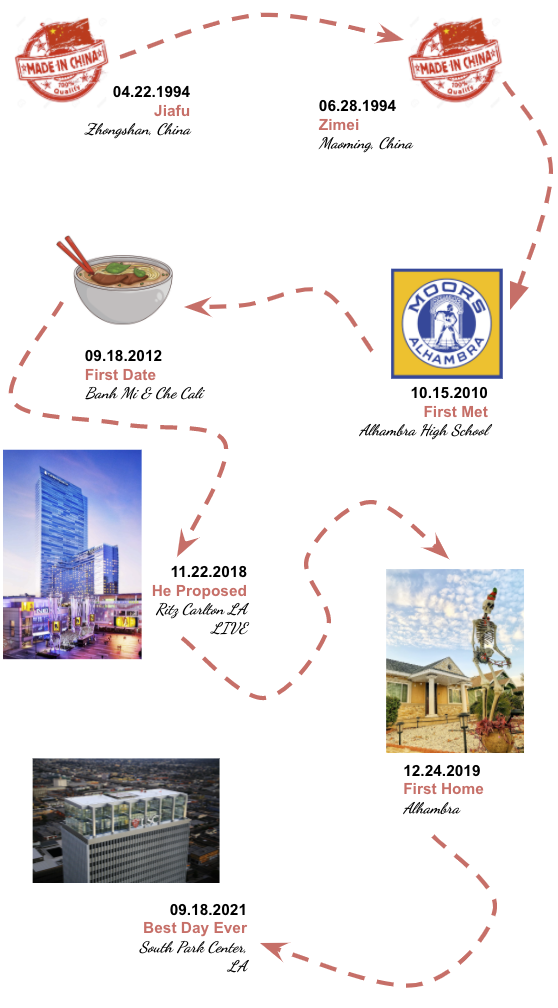
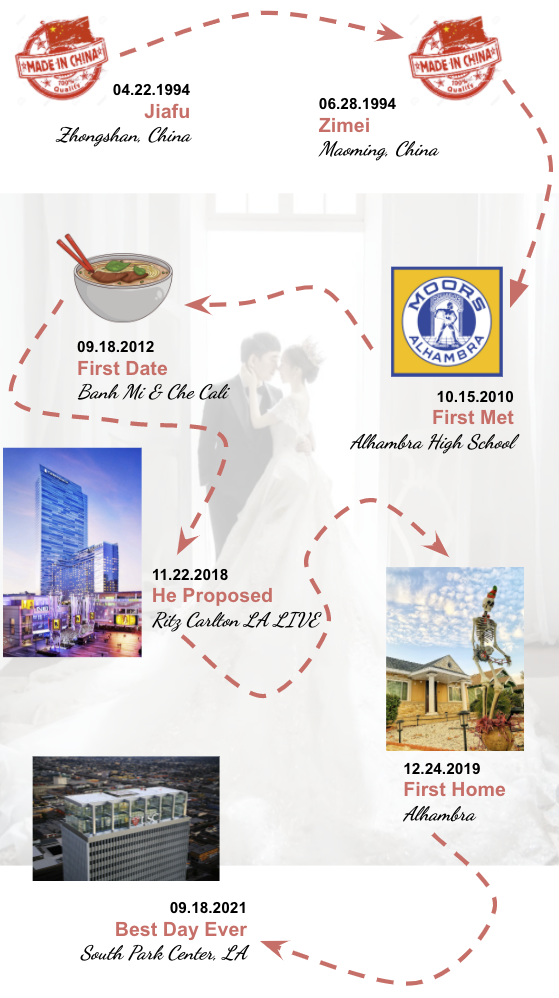
add wedding stuff

diff --git a/src/app/introduction/introduction.component.html b/src/app/introduction/introduction.component.html
@@ -1,6 +1,6 @@
 <div class="introduction_background_pic">
     <div class="wedding_gif">
-        <img class="wedding_gif_img" src="../../assets/wedding.gif">
+        <img class="wedding_gif_img" src="/assets/wedding.gif">
     </div>
     <div class="name">Zimei Zheng <div id="heart"></div> Jiafu Wu</div>
     <div class="date_loca">{{targetDate | date : "MMM d, y, EEEE"}}</div>
@@ -8,16 +8,16 @@
     <div class="countdown">{{daysToGo()}} days to go</div>
 </div>
 <div class="introduction_couple_pic">
-    <img class="couple_pic_front" src="../../assets/zimei.jpg">
+    <img class="couple_pic_front" src="/assets/zimei_jiafu_wedding.jpg">
 </div>
 
 <div class="christmas_light">
-    <img class="christmas_light_gif" src="../../assets/christmas light.webp">
+    <img class="christmas_light_gif" src="/assets/christmas light.webp">
 </div>
 
 <div class="diamond_container">
     <div class="diamond">
-        <img class="diamond_gif" src="../../assets/diamond.gif">
+        <img class="diamond_gif" src="/assets/diamond.gif">
     </div>
 </div>
 

diff --git a/src/app/bestpeople/bestpeople.component.spec.ts b/src/app/bestpeople/bestpeople.component.spec.ts
@@ -1,0 +1,25 @@
+import { ComponentFixture, TestBed } from '@angular/core/testing';
+
+import { BestpeopleComponent } from './bestpeople.component';
+
+describe('BestpeopleComponent', () => {
+  let component: BestpeopleComponent;
+  let fixture: ComponentFixture<BestpeopleComponent>;
+
+  beforeEach(async () => {
+    await TestBed.configureTestingModule({
+      declarations: [ BestpeopleComponent ]
+    })
+    .compileComponents();
+  });
+
+  beforeEach(() => {
+    fixture = TestBed.createComponent(BestpeopleComponent);
+    component = fixture.componentInstance;
+    fixture.detectChanges();
+  });
+
+  it('should create', () => {
+    expect(component).toBeTruthy();
+  });
+});

diff --git a/src/app/story/story.component.html b/src/app/story/story.component.html
@@ -11,12 +11,13 @@
     <div id="heart"></div>
 </div>
 <div class="introduction_couple_pic">
-    <img class="couple_pic_front" src="../../assets/couple1.jpeg">
+    <img class="couple_pic_front" src="/assets/ALX_3779.jpg">
 </div>
 <div class="story_container">
+    <div id="heart"></div>
     <div class="story"> And then there goes our story</div>
     <div class="story_bottom"> 我们的故事</div>
 </div>
 <div class="introduction_couple_pic">
-    <img class="timeline_pic" src="../../assets/timeline.png">
+    <img class="timeline_pic" src="/assets/timeline1.png">
 </div>

diff --git a/src/app/app.module.ts b/src/app/app.module.ts
@@ -7,13 +7,15 @@ import { AppComponent } from './app.component';
 import { IntroductionComponent } from './introduction/introduction.component';
 import { PlayerComponent } from './player/player.component';
 import { StoryComponent } from './story/story.component';
+import { BestpeopleComponent } from './bestpeople/bestpeople.component';
 
 @NgModule({
   declarations: [
     AppComponent,
     IntroductionComponent,
     PlayerComponent,
-    StoryComponent
+    StoryComponent,
+    BestpeopleComponent
   ],
   imports: [
     BrowserModule,

diff --git a/src/app/bestpeople/bestpeople.component.ts b/src/app/bestpeople/bestpeople.component.ts
@@ -1,0 +1,15 @@
+import { Component, OnInit } from '@angular/core';
+
+@Component({
+  selector: 'app-bestpeople',
+  templateUrl: './bestpeople.component.html',
+  styleUrls: ['./bestpeople.component.css']
+})
+export class BestpeopleComponent implements OnInit {
+
+  constructor() { }
+
+  ngOnInit(): void {
+  }
+
+}

diff --git a/src/app/player/player.component.html b/src/app/player/player.component.html
@@ -5,7 +5,7 @@
 >
   <vm-audio>
     <source 
-      data-src="../../assets/Ed-Sheeran-Perfect.mp3" 
+      data-src="/assets/Ed-Sheeran-Perfect.mp3" 
       type="video/mp4"
     />
   </vm-audio>

diff --git a/src/app/story/story.component.css b/src/app/story/story.component.css
@@ -22,7 +22,7 @@
     margin-bottom: 50px;
   }
 
-.couple_pic_front, .timeline_pic {
+.couple_pic_front, .timeline_pic, .stuff_pic {
     width: 100%;
   }
 

diff --git a/src/app/bestpeople/bestpeople.component.html b/src/app/bestpeople/bestpeople.component.html
@@ -1,0 +1,1 @@
+<p>bestpeople works!</p>
